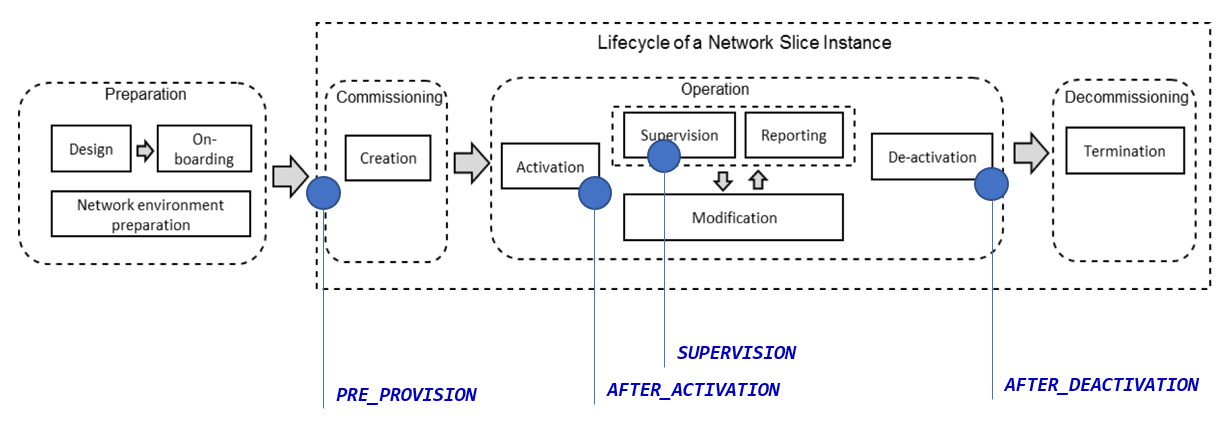
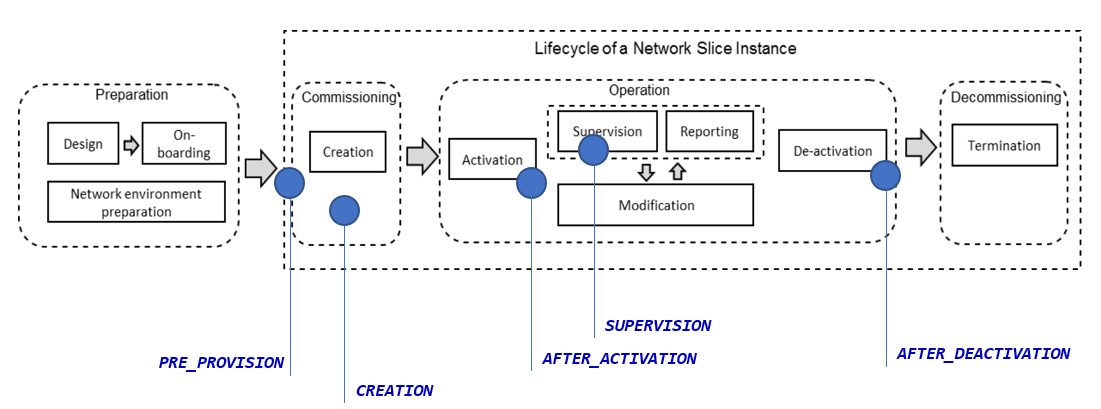
added creation rule

diff --git a/doc/architecture/messagebus.md b/doc/architecture/messagebus.md
@@ -602,3 +602,62 @@ It is based on ActiveMQ.
 |**Headers** | header.servicespecid, header.phasename |
 |**Description** |   The Body  contains the LCMRuleSpec objects of the specific Service Spec and the specific phase  |
 
+
+
+
+
+| Message |    |
+| ------------- |----------------|
+|**Alias** |  CATALOG_GET_SERVICETESTSPEC_BY_ID  |
+|**Name** |  jms:queue:CATALOG.GET.SERVICETESTSPEC_BY_ID  |
+|**Type** | queue  |
+|**Destination** |   TMF API service |
+|**Producers** | OSOM |
+|**Body** |  specid |
+|**Description** | Return a ServiceTestSpecification |
+
+---
+
+
+| Message |    |
+| ------------- |----------------|
+|**Alias** |  CATALOG_ADD_SERVICETEST  |
+|**Name** |  jms:queue:CATALOG.ADD.SERVICETEST  |
+|**Type** | queue  |
+|**Destination** |   TMF API service |
+|**Producers** | OSOM |
+|**Body** |  ServiceTestCreate String json |
+|**Headers** | "orderid"=orderid, "serviceTestSpecid"= specid |
+|**Description** |   Creates Service Test based an a Service Test Spec, Returns a ServiceTest object |
+
+---
+
+
+
+
+
+| Message |    |
+| ------------- |----------------|
+|**Alias** |  CATALOG_UPD_SERVICETEST  |
+|**Name** |  jms:queue:CATALOG.UPD.SERVICETEST  |
+|**Type** | queue  |
+|**Destination** |   TMF API service |
+|**Producers** | |
+|**Body** |  ServiceTestUpdate |
+|**Headers** | "serviceid" = serviceId, "propagateToSO" = true/false |
+|**Description** |  will update a service test by id and return the service instance. If propagateToSO=true then any service change will be handled by OSOM. This is needed to be controlled in order to avoid update loops|
+
+---
+
+
+| Message |    |
+| ------------- |----------------|
+|**Alias** |  CATALOG_GET_SERVICETEST_BY_ID  |
+|**Name** |  jms:queue:CATALOG.GET.SERVICETEST  |
+|**Type** | queue  |
+|**Destination** |   TMF API service |
+|**Producers** | OSOM |
+|**Body** |  String serviceID |
+|**Description** |   returns a Service TEST instance |
+
+

diff --git a/doc/lcm.md b/doc/lcm.md
@@ -4,7 +4,8 @@
 
 LCM Rules are used for defining complex conditions and actions during the lifecycle of a service. In Openslice there are four types of rules defined:
 
-* PRE_PROVISION 
+* PRE_PROVISION
+* CREATION
 * AFTER_ACTIVATION 
 * SUPERVISION 
 * AFTER_DEACTIVATION 
@@ -14,14 +15,23 @@ The following figure displays the different phases that the rules are performed,
 
 [![Rules in NSI](../images/lcm/lcmfig1.png)](../images/lcm/lcmfig1.png)
 
+* PRE_PROVISION rules: Run only once just before creating a service with a given priority. 
+* CREATION rules: Run while the referenced service dependencies of a service are created
+* AFTER_ACTIVATION rules: Run only once just after a service get the ACTIVE state
+* SUPERVISION rules: Run when a characteristic of a service is changed and the service is in the ACTIVE state 
+* AFTER_DEACTIVATION rules: Run only once just after a service get the INACTIVE/TERMINATED state 
 
 In general the rules allow to perform many actions during service LCM. Thes are some examples:
 
 * Modify service specification parameters before the instantiation of a service (or during operation) based on other dependencies. These parameters might be part of other services already included in Service order
 * Translate GST/NEST parameter values to other values passed later to NFVO for instantiation or control
 * Define complex OSM Configs based on other dependencies and passing variables
+* Define any dependencies when creating the referenced services
+* Dynamically include new service dependencies
 * Create new service orders so include dynamically other services
 * Call external (RESTful) services (via http(s), define payload, examine response)
+
+
 
 
 ## Examine if the rules are executed successfully 
